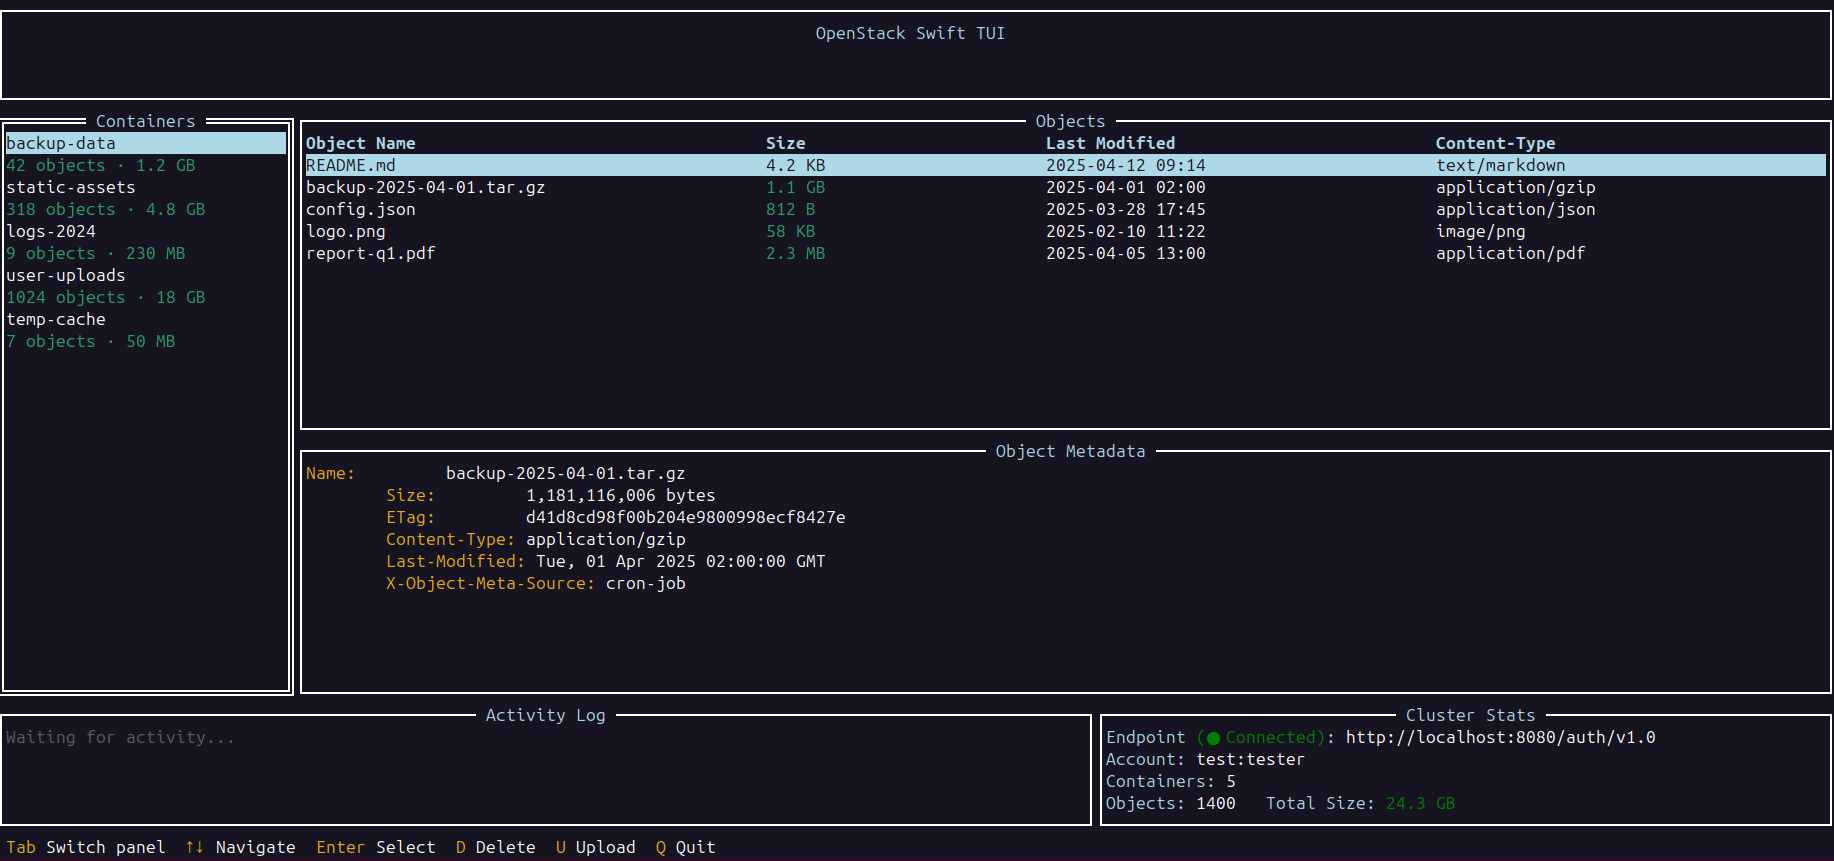
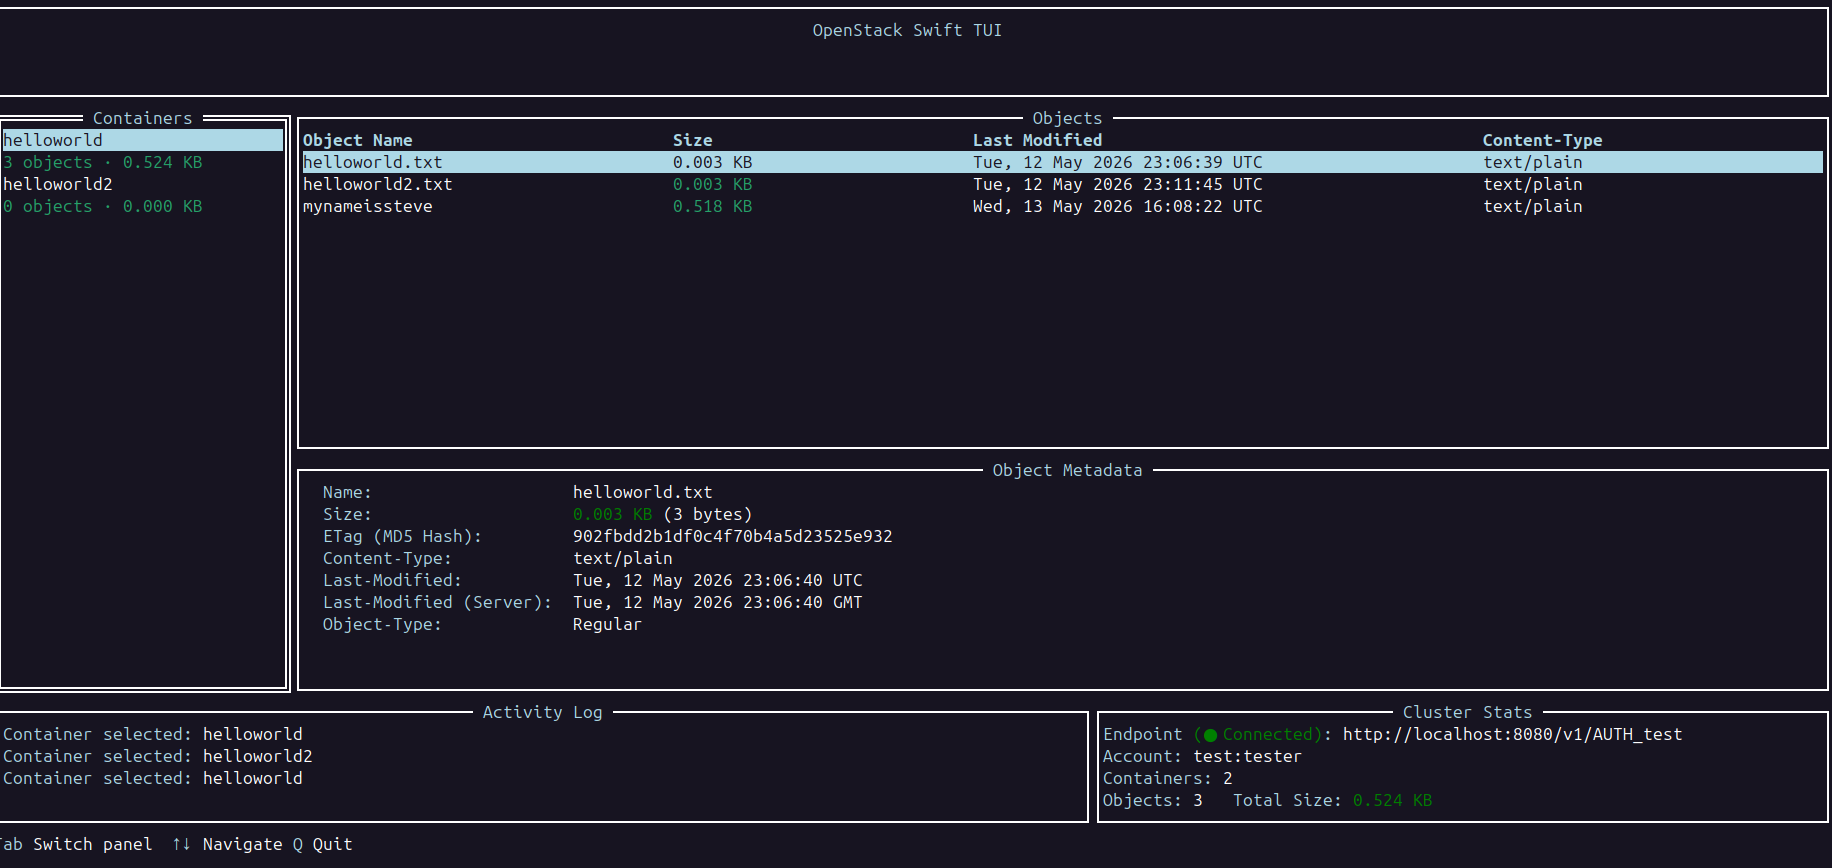
feat: Add metadata parsing to TUI

Changed region(s): [[0.0, 0.0, 1.0, 1.0], [0.4356, 0.2718, 0.4667, 0.302], [0.0933, 0.3322, 0.1245, 0.3624]]

diff --git a/internal/ui/ui.go b/internal/ui/ui.go
@@ -8,6 +8,8 @@ import (
 	swiftSdk "github.com/ncw/swift/v2"
 	"github.com/rivo/tview"
 	"time"
+	"strings"
+	"sort"
 )
 
 // GetMainTUI builds and returns the fully wired TUI application
@@ -54,6 +56,17 @@ func FormatBytes(a int64) (float64, string) {
 	}
 }
 
+// ObjectTypeString converts an ObjectType to a human-readable string
+func ObjectTypeString(t swiftSdk.ObjectType) string {
+	switch t {
+	case swiftSdk.StaticLargeObjectType:
+		return "Static Large Object"
+	case swiftSdk.DynamicLargeObjectType:
+		return "Dynamic Large Object"
+	default:
+		return "Regular"
+	}
+}
 // Gets the header object of the TUI
 func GetHeader() *tview.TextView {
 	header := tview.NewTextView().
@@ -315,10 +328,10 @@ func UpdateObjectTable(client *swiftSdk.Connection, objectTable *tview.Table, se
 }
 
 // Gets the metadata pane using a Swift connection, returing the pane using some currently selected object
-func GetMetadataView(client *swiftSdk.Connection, selectedObject string) *tview.TextView {
+func GetMetadataView(client *swiftSdk.Connection, selectedContainer string, selectedObject string) *tview.TextView {
 	metadataView := tview.NewTextView().
 		SetDynamicColors(true)
-	metadataView = UpdateMetadataView(client, metadataView, selectedObject)
+	metadataView = UpdateMetadataView(client, metadataView, selectedContainer, selectedObject)
 	metadataView.
 		SetTitle(" Object Metadata ").
 		SetTitleColor(TEXT_HEADER_COLOR).
@@ -327,18 +340,85 @@ func GetMetadataView(client *swiftSdk.Connection, selectedObject string) *tview.
 	return metadataView
 }
 
-// Updates the metadata pane using a Swift connection, returing the pane using some currently selected object
-func UpdateMetadataView(client *swiftSdk.Connection, metadataView *tview.TextView, selectedObject string) *tview.TextView {
-	metadataView = metadataView.SetText(
-		`
-		[yellow]Name:[white]         backup-2025-04-01.tar.gz
-		[yellow]Size:[white]         1,181,116,006 bytes
-		[yellow]ETag:[white]         d41d8cd98f00b204e9800998ecf8427e
-		[yellow]Content-Type:[white] application/gzip
-		[yellow]Last-Modified:[white] Tue, 01 Apr 2025 02:00:00 GMT
-		[yellow]X-Object-Meta-Source:[white] cron-job
-		`,
+// Updates the metadata pane using a Swift connection, returning the pane using some currently selected object
+func UpdateMetadataView(client *swiftSdk.Connection, metadataView *tview.TextView, selectedContainer string, selectedObject string) *tview.TextView {
+	metadataView = metadataView.SetText(``)
+	if selectedObject == NO_OBJECT_SELECTED || selectedContainer == NO_CONTAINER_SELECTED {
+		return metadataView
+	}
+
+	metadata, info, err := client.Object(context.Background(), selectedContainer, selectedObject)
+	if err != nil {
+		util.LogError(
+			fmt.Sprintf("Failed to get object info about %s from %s from %s as %s: %s",
+				selectedObject,
+				selectedContainer,
+				client.StorageUrl,
+				client.UserName,
+				err.Error(),
+			),
+		)
+		return metadataView
+	}
+
+	util.LogDebug(
+		fmt.Sprintf(
+			"Successfully retrieved object information about object %s from container %s",
+			selectedObject,
+			selectedContainer,
+		),
 	)
+
+	header := ColorToTag(TEXT_HEADER_COLOR)
+	text := ColorToTag(TEXT_COLOR)
+	accent := ColorToTag(TEXT_ACCENT_COLOR)
+	reset := "[-]"
+
+	size, unit := FormatBytes(metadata.Bytes)
+
+	var sb strings.Builder
+
+	sb.WriteString(fmt.Sprintf("%s  Name:                   %s %s\n", header, reset+text, metadata.Name+reset))
+	sb.WriteString(fmt.Sprintf("%s  Size:                   %s %s%.3f %s%s (%d bytes)%s\n",
+		header, reset,
+		accent, size, unit, reset+text,
+		metadata.Bytes, reset,
+	))
+
+	serverModifiedTime, err := time.Parse(time.RFC1123, metadata.ServerLastModified)
+	if err != nil {
+		util.LogError(
+			fmt.Sprintf(
+				"Failed to convert last modified server time string %s to time struct using RFC1123, %s",
+				metadata.ServerLastModified,
+				err.Error(),
+			),
+		)
+	}
+	sb.WriteString(fmt.Sprintf("%s  ETag (MD5 Hash):        %s %s\n", header, reset+text, metadata.Hash+reset))
+	sb.WriteString(fmt.Sprintf("%s  Content-Type:           %s %s\n", header, reset+text, metadata.ContentType+reset))
+	sb.WriteString(fmt.Sprintf("%s  Last-Modified:          %s %s\n", header, reset+text, metadata.LastModified.Format(time.RFC1123)+reset))
+	sb.WriteString(fmt.Sprintf("%s  Last-Modified (Server): %s %s\n", header, reset+text, serverModifiedTime.Format(time.RFC1123)))
+	sb.WriteString(fmt.Sprintf("%s  Object-Type:            %s %s\n", header, reset+text, ObjectTypeString(metadata.ObjectType)+reset))
+	
+	// Append any X-Object-Meta-* headers from the response
+	metaKeys := make([]string, 0)
+	for key := range info {
+		if strings.HasPrefix(key, "X-Object-Meta-") {
+			metaKeys = append(metaKeys, key)
+		}
+	}
+	sort.Strings(metaKeys)
+
+	if len(metaKeys) > 0 {
+		sb.WriteString(fmt.Sprintf("\n%s-- Object Metadata --%s\n", header, reset))
+		for _, key := range metaKeys {
+			displayKey := strings.TrimPrefix(key, "X-Object-Meta-")
+			sb.WriteString(fmt.Sprintf(  "%s%-13s%s %s\n", header, displayKey+":", reset+text, info[key]+reset))
+		}
+	}
+
+	metadataView = metadataView.SetText(sb.String())
 	return metadataView
 }
 
@@ -367,7 +447,15 @@ func GetStatusBar() *tview.TextView {
 
 // Updates the status bar for the TUI
 func UpdateStatusBar(statusBar *tview.TextView) *tview.TextView {
-	statusBar = statusBar.SetText(" [yellow]Tab[white] Switch panel  [yellow]↑↓[white] Navigate [yellow]Q[white] Quit")
+	headerTag := ColorToTag(TEXT_HEADER_COLOR)
+	textTag := ColorToTag(TEXT_COLOR)
+	statusBarText := fmt.Sprintf(
+		"%sTab%s Switch panel  %s↑↓%s Navigate %sQ%s Quit",
+		headerTag, textTag,
+		headerTag, textTag,
+		headerTag, textTag,
+	)
+	statusBar = statusBar.SetText(statusBarText)
 	return statusBar
 }
 
@@ -377,13 +465,13 @@ func BuildLayout(client *swiftSdk.Connection, app *tview.Application) *Layout {
 	l := &Layout{}
 	l.ClusterStats = GetClusterStats(client)
 
-	var selectedContainer string = NO_CONTAINER_SELECTED
-	l.ContainerList, selectedContainer = GetContainerList(client)
+	l.ContainerList = struct{Main *tview.List; SelectedContainer string}{}
+	l.ContainerList.Main, l.ContainerList.SelectedContainer = GetContainerList(client)
 
-	var selectedObject string = NO_OBJECT_SELECTED
-	l.ObjectTable, selectedObject = GetObjectTable(client, selectedContainer)
+	l.ObjectTable = struct{Main *tview.Table; SelectedObject string}{}
+	l.ObjectTable.Main, l.ObjectTable.SelectedObject = GetObjectTable(client, l.ContainerList.SelectedContainer)
 
-	l.MetadataView = GetMetadataView(client, selectedObject)
+	l.MetadataView = GetMetadataView(client, l.ContainerList.SelectedContainer, l.ObjectTable.SelectedObject)
 	l.LogView = GetLogView()
 	l.StatusBar = GetStatusBar()
 
@@ -392,11 +480,11 @@ func BuildLayout(client *swiftSdk.Connection, app *tview.Application) *Layout {
 		AddItem(header, 0, 2, false)
 
 	rightPanel := tview.NewFlex().SetDirection(tview.FlexRow).
-		AddItem(l.ObjectTable, 0, 6, false).
+		AddItem(l.ObjectTable.Main, 0, 6, false).
 		AddItem(l.MetadataView, 0, 4, false)
 
 	mainContent := tview.NewFlex().SetDirection(tview.FlexColumn).
-		AddItem(l.ContainerList, 30, 0, true).
+		AddItem(l.ContainerList.Main, 30, 0, true).
 		AddItem(rightPanel, 0, 1, false)
 
 	root := tview.NewFlex().SetDirection(tview.FlexRow).
@@ -413,22 +501,25 @@ func BuildLayout(client *swiftSdk.Connection, app *tview.Application) *Layout {
 
 	app = SetupInputHandling(app, l)
 
-	// Update metadata when a container is selected
-	l.ContainerList.SetChangedFunc(func(index int, name, secondary string, shortcut rune) {
+	// Update object table and metadata when a container is selected
+	l.ContainerList.Main.SetChangedFunc(func(index int, name, secondary string, shortcut rune) {
 		util.LogDebug(fmt.Sprintf("Triggered event on container selection on %s", name))
-		l.ObjectTable.Clear()
-		UpdateObjectTable(client, l.ObjectTable, name)
+		l.ContainerList.SelectedContainer = name
+		l.ObjectTable.Main.Clear()
+		_, l.ObjectTable.SelectedObject = UpdateObjectTable(client, l.ObjectTable.Main, l.ContainerList.SelectedContainer)
 		appendLog(l.LogView, fmt.Sprintf("%sContainer selected:%s %s", ColorToTag(TEXT_HEADER_COLOR), ColorToTag(TEXT_COLOR), name))
+		UpdateMetadataView(client, l.MetadataView, l.ContainerList.SelectedContainer, l.ObjectTable.SelectedObject)
 	})
 
 	// Update metadata when an object row is selected
-	l.ObjectTable.SetSelectionChangedFunc(func(row, col int) {
+	l.ObjectTable.Main.SetSelectionChangedFunc(func(row, col int) {
 		if row > 0 {
-			cell := l.ObjectTable.GetCell(row, 0)
+			cell := l.ObjectTable.Main.GetCell(row, 0)
 			util.LogDebug(fmt.Sprintf("Triggered event on object selection on %s", cell.Text))
 			if cell != nil {
 				appendLog(l.LogView, fmt.Sprintf("%sObject focused:%s %s", ColorToTag(TEXT_HEADER_COLOR), ColorToTag(TEXT_COLOR), cell.Text))
-				l.MetadataView = UpdateMetadataView(client, l.MetadataView, cell.Text)
+				l.ObjectTable.SelectedObject = cell.Text
+				UpdateMetadataView(client, l.MetadataView, l.ContainerList.SelectedContainer, l.ObjectTable.SelectedObject)
 			}
 		}
 	})
@@ -446,7 +537,7 @@ func appendLog(v *tview.TextView, msg string) {
 // Sets up input handling for the TUI
 func SetupInputHandling(app *tview.Application, l *Layout) *tview.Application {
 
-	panels := []tview.Primitive{l.ContainerList, l.ObjectTable, l.MetadataView, l.LogView}
+	panels := []tview.Primitive{l.ContainerList.Main, l.ObjectTable.Main, l.MetadataView, l.LogView}
 	currentPanel := 0
 
 	app.SetInputCapture(func(event *tcell.EventKey) *tcell.EventKey {

diff --git a/internal/ui/types.go b/internal/ui/types.go
@@ -18,8 +18,14 @@ var BORDER_COLOR tcell.Color = tcell.ColorWhite
 // Layout holds all TUI panels for reference
 type Layout struct {
 	App           *tview.Application
-	ContainerList *tview.List
-	ObjectTable   *tview.Table
+	ContainerList struct {
+		Main *tview.List 
+		SelectedContainer string
+	}
+	ObjectTable struct {
+		Main *tview.Table 
+		SelectedObject string
+	}
 	MetadataView  *tview.TextView
 	ClusterStats  *tview.TextView
 	LogView       *tview.TextView

diff --git a/pkg/util/logger.go b/pkg/util/logger.go
@@ -41,14 +41,14 @@ type logStreamHandler struct {
 }
 
 func (h *logStreamHandler) Enabled(ctx context.Context, level slog.Level) bool {
-	return h.errHandler.Enabled(ctx, level) || h.outHandler.Enabled(ctx, level) || h.debugHandler.Enabled(ctx, level)
+	return h.errHandler.Enabled(ctx, level) || h.outHandler.Enabled(ctx, level) || (h.debugHandler != nil && h.debugHandler.Enabled(ctx, level))
 }
 
 func (h *logStreamHandler) Handle(ctx context.Context, r slog.Record) error {
 	if r.Level >= slog.LevelWarn {
 		return h.errHandler.Handle(ctx, r)
 	}
-	if r.Level == slog.LevelDebug {
+	if r.Level == slog.LevelDebug && h.debugHandler != nil {
 		return h.debugHandler.Handle(ctx, r)
 	}
 	return h.outHandler.Handle(ctx, r)
@@ -161,8 +161,10 @@ func SetDebugLogging(val bool) {
 			errHandler: errHandler,
 			outHandler: outHandler,
 		})
-		debugFile.Close()
-		debugFile = nil
+		if debugFile != nil {
+			debugFile.Close()
+			debugFile = nil
+		}
 		slog.SetDefault(logger)
 	}
 }